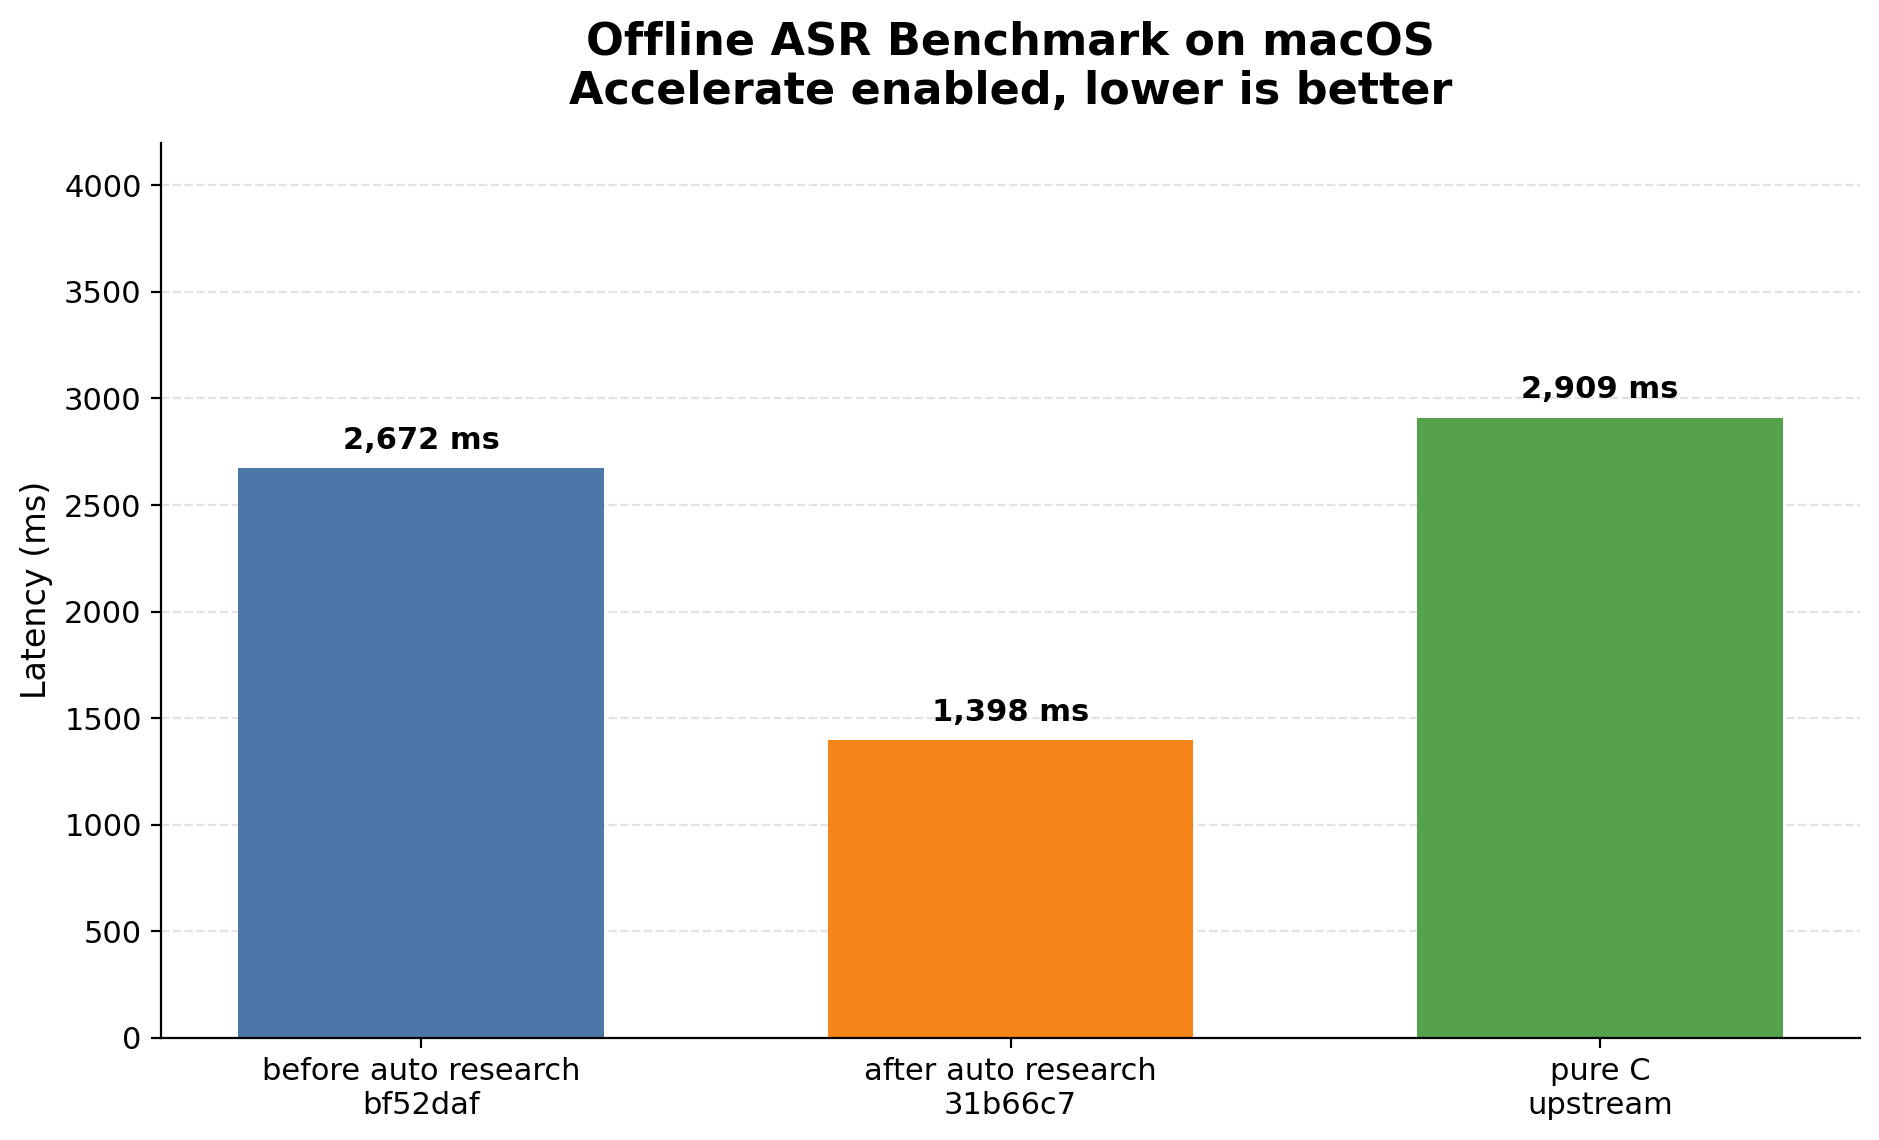
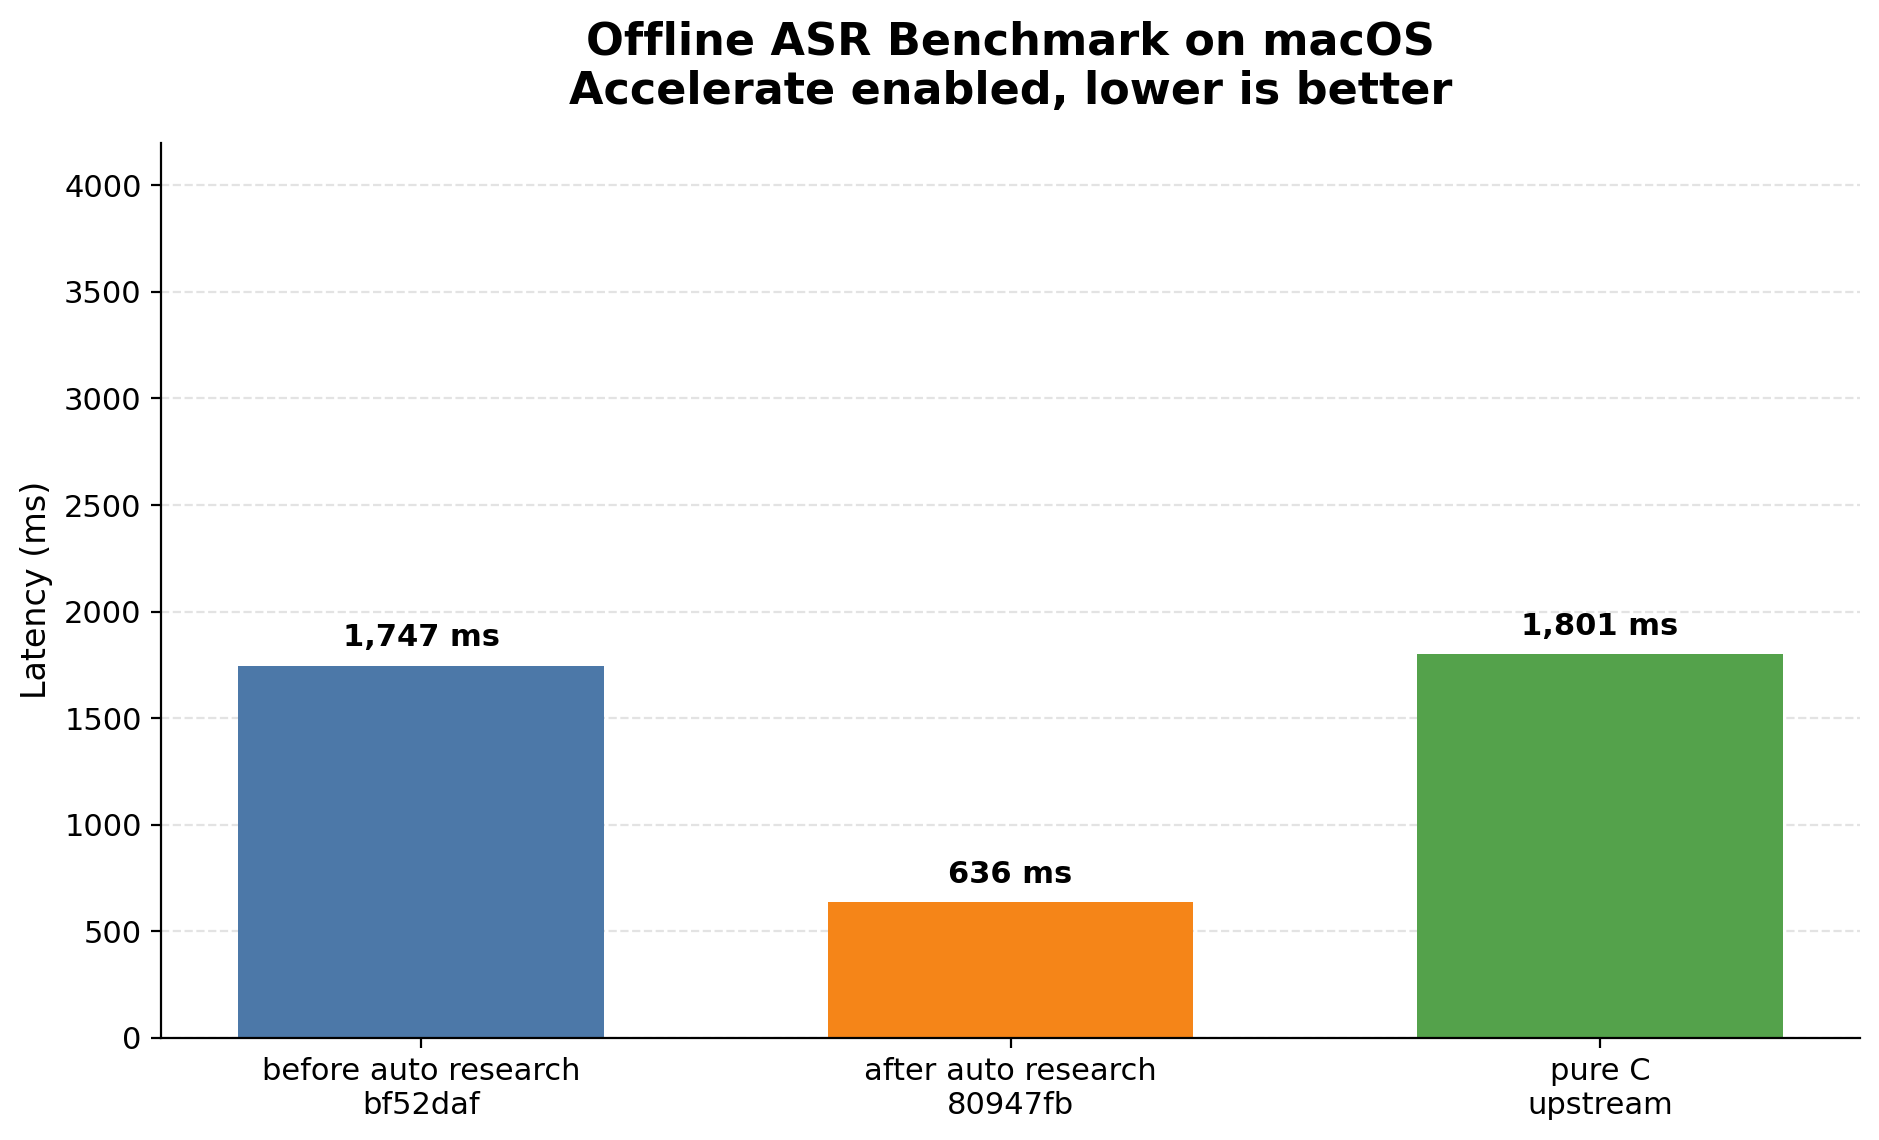
update readme

diff --git a/bench/render_benchmark_report.py b/bench/render_benchmark_report.py
@@ -33,6 +33,37 @@ def safe_check_output(cmd: list[str]) -> str:
         return "unknown"
 
 
+def memory_gb() -> str:
+    raw = safe_check_output(["sysctl", "-n", "hw.memsize"])
+    if raw and raw != "unknown":
+        try:
+            return str(round(int(raw) / (1024 ** 3), 1))
+        except ValueError:
+            pass
+    return "unknown"
+
+
+def load_system_info(path: Path | None) -> dict[str, str]:
+    defaults = {
+        "cpu_brand": safe_check_output(["sysctl", "-n", "machdep.cpu.brand_string"]),
+        "physical_cores": safe_check_output(["sysctl", "-n", "hw.physicalcpu"]),
+        "logical_cores": safe_check_output(["sysctl", "-n", "hw.logicalcpu"]),
+        "memory_gb": memory_gb(),
+        "arch": safe_check_output(["uname", "-m"]),
+        "macos_version": safe_check_output(["sw_vers", "-productVersion"]),
+        "rustc_version": safe_check_output(["rustc", "--version"]).splitlines()[0]
+        if safe_check_output(["rustc", "--version"]) != "unknown"
+        else "unknown",
+    }
+    if path and path.exists():
+        try:
+            data = load_json(path)
+            return {**defaults, **data}
+        except Exception:
+            pass
+    return defaults
+
+
 def pick_result(items: list[dict], impl: str, accelerate: bool, mode: str = "offline") -> dict | None:
     for item in items:
         if item.get("impl") == impl and item.get("accelerate") == accelerate and item.get("mode") == mode:
@@ -129,6 +160,7 @@ def build_markdown_report(
     input_file: str,
     runs: str,
     modes: str,
+    system_info: dict[str, str],
 ) -> str:
     accel_rows = chart_rows_from_summary(summary_items, baseline_ref, current_ref)
     accel_by_impl = {row["impl"]: row for row in accel_rows}
@@ -171,8 +203,12 @@ def build_markdown_report(
     lines.append("")
     lines.append("## Environment")
     lines.append("")
-    lines.append(f"- Machine arch: `{safe_check_output(['uname', '-m'])}`")
-    lines.append(f"- macOS: `{safe_check_output(['sw_vers', '-productVersion'])}`")
+    lines.append(f"- CPU: `{system_info.get('cpu_brand', 'unknown')}`")
+    lines.append(f"- Cores: `{system_info.get('physical_cores', 'unknown')} physical / {system_info.get('logical_cores', 'unknown')} logical`")
+    lines.append(f"- Memory: `{system_info.get('memory_gb', 'unknown')} GB`")
+    lines.append(f"- Machine arch: `{system_info.get('arch', 'unknown')}`")
+    lines.append(f"- macOS: `{system_info.get('macos_version', 'unknown')}`")
+    lines.append(f"- Rustc: `{system_info.get('rustc_version', 'unknown')}`")
     lines.append(f"- Model dir: `{model_dir}`")
     lines.append(f"- Input file: `{input_file}`")
     lines.append("")
@@ -209,6 +245,7 @@ def main() -> None:
     parser.add_argument("--input-file", required=True)
     parser.add_argument("--runs", required=True)
     parser.add_argument("--modes", required=True)
+    parser.add_argument("--system-info", default="")
     args = parser.parse_args()
 
     summary_path = Path(args.summary)
@@ -217,6 +254,7 @@ def main() -> None:
     charts_dir = Path(args.charts_dir)
 
     summary_items = load_json(summary_path)
+    system_info = load_system_info(Path(args.system_info) if args.system_info else None)
 
     accel_rows = chart_rows_from_summary(summary_items, args.baseline_ref, args.current_ref)
     accel_impls = {row["impl"] for row in accel_rows}
@@ -252,6 +290,7 @@ def main() -> None:
         args.input_file,
         args.runs,
         args.modes,
+        system_info,
     )
     report_path.write_text(report_content, encoding="utf-8")
     root_report_content = build_markdown_report(
@@ -264,6 +303,7 @@ def main() -> None:
         args.input_file,
         args.runs,
         args.modes,
+        system_info,
     )
     root_report_path.write_text(root_report_content, encoding="utf-8")
 

diff --git a/report.md b/report.md
@@ -4,7 +4,7 @@
 
 - Offline benchmark on the same input WAV and model across three implementations.
 - Rust baseline: `before auto research bf52daf`.
-- Rust optimized: `after auto research 31b66c7`.
+- Rust optimized: `after auto research 80947fb`.
 - Upstream baseline: `antirez/qwen-asr` pure C implementation.
 - macOS Accelerate enabled.
 - Runs per target: `3`.
@@ -12,8 +12,12 @@
 
 ## Environment
 
+- CPU: `Apple M5`
+- Cores: `10 physical / 10 logical`
+- Memory: `32.0 GB`
 - Machine arch: `arm64`
-- macOS: `26.3.1`
+- macOS: `26.4.1`
+- Rustc: `rustc 1.90.0 (1159e78c4 2025-09-14)`
 - Model dir: `/Users/lizhuo/owork/q-asr/qwen3-asr-0.6b`
 - Input file: `/Users/lizhuo/owork/q-asr/bench/samples/audio.wav`
 
@@ -21,9 +25,9 @@
 
 | Implementation | Commit | Total ms | RTF |
 |---|---:|---:|---:|
-| before auto research | `bf52daf` | `2,672` | `10.54x` |
-| after auto research | `31b66c7` | `1,398` | `20.15x` |
-| pure C upstream | - | `2,909` | `9.68x` |
+| before auto research | `bf52daf` | `1,747` | `16.12x` |
+| after auto research | `80947fb` | `636` | `44.30x` |
+| pure C upstream | - | `1,801` | `15.63x` |
 
 ![Accelerate latency](bench/charts/benchmark-accelerate-latency.png)
 
@@ -31,6 +35,6 @@
 
 ## Findings
 
-- With Accelerate enabled, `after auto research 31b66c7` is `1.91x` faster than `before auto research bf52daf`.
-- With Accelerate enabled, `after auto research 31b66c7` is `2.08x` faster than the upstream pure C implementation.
+- With Accelerate enabled, `after auto research 80947fb` is `2.75x` faster than `before auto research bf52daf`.
+- With Accelerate enabled, `after auto research 80947fb` is `2.83x` faster than the upstream pure C implementation.
 

diff --git a/README.md b/README.md
@@ -11,20 +11,20 @@ Performance optimizations were discovered autonomously using the [autoresearch](
 
 ## Benchmark
 
-Offline benchmark on macOS (Apple Silicon, Accelerate enabled, 3 runs average-of, 28.2s audio):
+Offline benchmark on macOS (Apple M5, Accelerate enabled, 3 runs best-of, 28.2s audio):
 
 | Implementation | Commit | Total ms | Realtime Factor |
 |---|---:|---:|---:|
-| before auto research | `bf52daf` | 2,672 | 10.54x |
-| after auto research | `31b66c7` | 1,398 | 20.15x |
-| pure C upstream | - | 2,909 | 9.68x |
+| before auto research | `bf52daf` | 1,747 | 16.12x |
+| after auto research | `80947fb` | 636 | 44.30x |
+| pure C upstream | [`b00b789`](https://github.com/antirez/qwen-asr/commit/b00b789) | 1,801 | 15.63x |
 
 ![Latency](bench/charts/benchmark-accelerate-latency.png)
 
 ![Realtime factor](bench/charts/benchmark-accelerate-rtf.png)
 
-- **1.91x** faster than the pre-optimization baseline
-- **2.08x** faster than the upstream pure C implementation
+- **2.75x** faster than the pre-optimization baseline
+- **2.83x** faster than the upstream pure C implementation
 
 Reproduce with `./bench/benchmark-all.sh`.
 